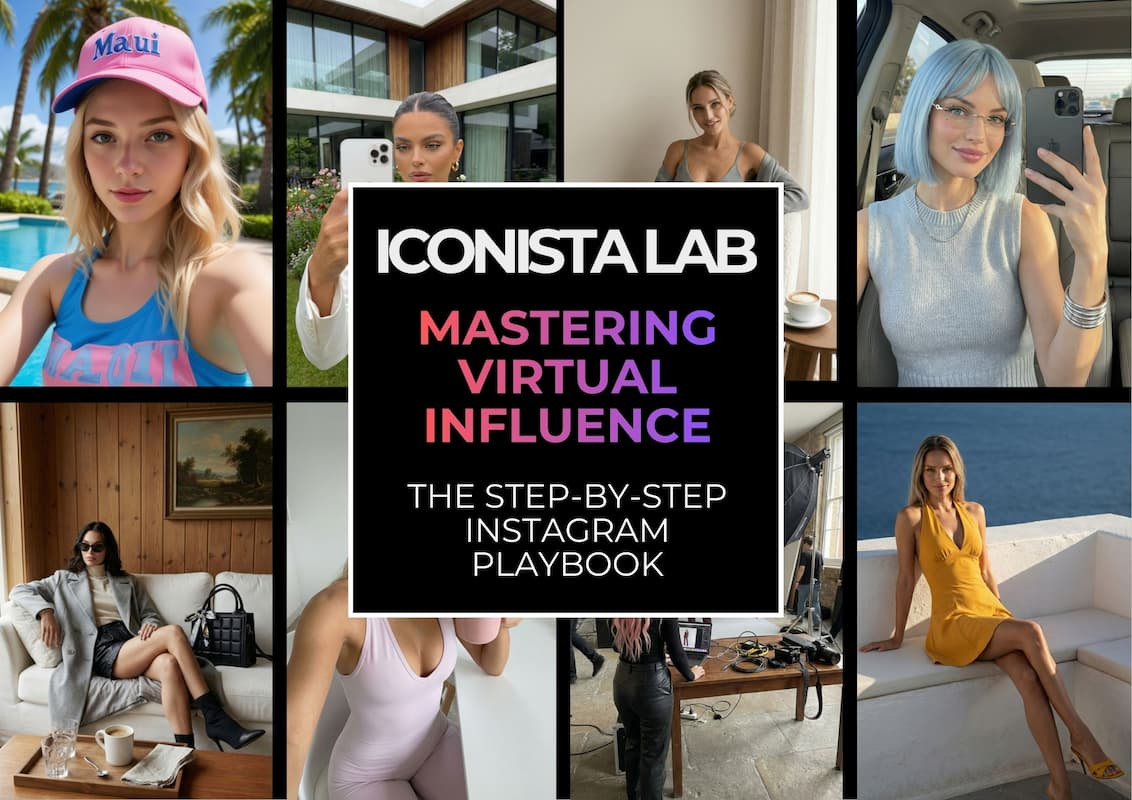
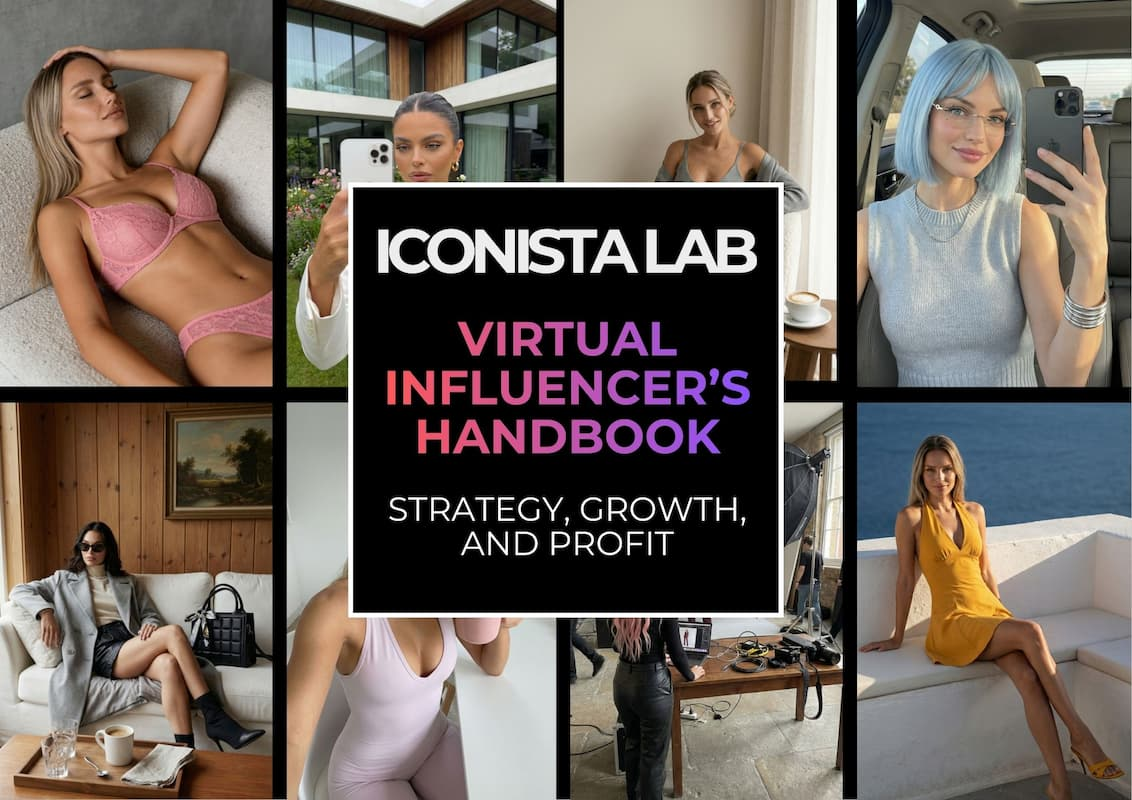
Change guide name

Changed region(s): [[0.0, 0.0, 0.2473, 0.5], [0.3401, 0.375, 0.6802, 0.7188]]

diff --git a/src/constants/guides/index.ts b/src/constants/guides/index.ts
@@ -67,8 +67,8 @@ export const GUIDES: Record<string, GuideItem> = {
         id: 46,
         gumroadSlug: "virtual-influence-instagram-playbook",
         boostyId: "",
-        name: "Mastering Virtual Influence: The Step-by-Step Instagram Playbook",
-        description: "This guide is a comprehensive, 7-part roadmap designed to help you build, grow, and monetize a virtual persona on Instagram. This guide provides a step-by-step action plan to automate 94% of your content creation using AI, master the Instagram algorithm through strategic engagement, and scale your digital brand from zero to a realistic 2K–5K monthly income within one year.",
+        name: "Virtual Influencer’s Handbook: Strategy, Growth, And Profit",
+        description: "This guide is a comprehensive, step-by-step system designed to help you build, grow, and monetize a professional virtual influencer brand on Instagram without ever needing to appear on camera. It transforms a complex creative process into a highly efficient business model.",
         price: {
           en: 14.9
         },
